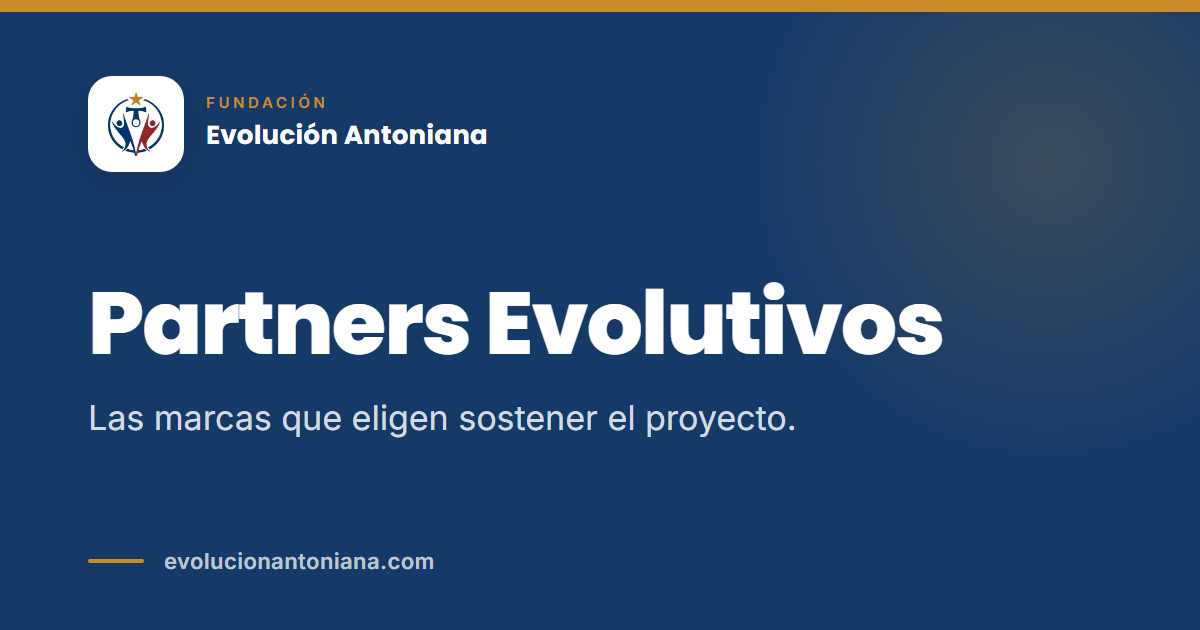
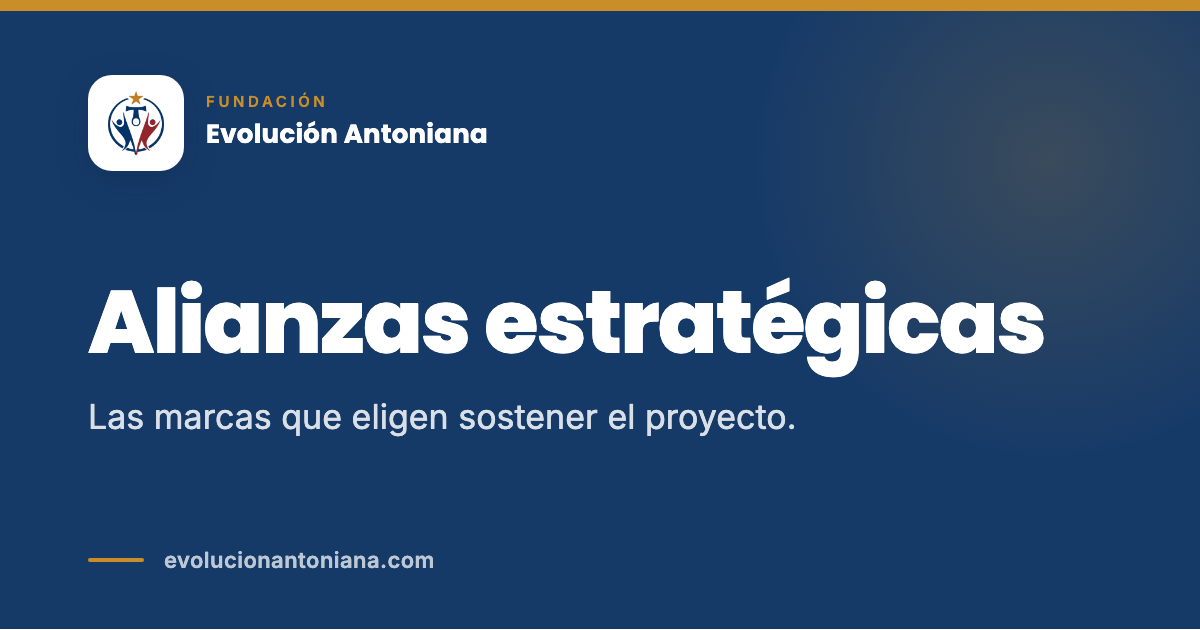
feat(language): normalizar vocabulario de alianzas

diff --git a/src/pages/Home.jsx b/src/pages/Home.jsx
@@ -22,6 +22,7 @@ import {
   useApprovedPartners,
 } from "@/hooks/useContentQueries";
 import { RUTAS } from "@/config/rutas";
+import { entidad } from "@/config/entidad";
 import { canonicalUrl } from "@/lib/seo";
 const stats = [
   { number: "305", suffix: "+", label: "Almas impactadas", desc: "Beneficiarios directos de nuestros programas." },
@@ -204,7 +205,7 @@ const Home = () => {
   return (
     <div className="bg-brand-sand">
       <Helmet>
-        <title>Fundación Evolución Antoniana | Educación, Deporte y Tecnología para Transformar Realidades</title>
+        <title>{entidad.nombre} | Educación, Deporte y Tecnología para Transformar Realidades</title>
         <meta name="description" content="Impulsamos oportunidades reales a través de la educación, el deporte, la inclusión y la tecnología, desarrollando proyectos que transforman realidades." />
         <link rel="canonical" href={canonicalUrl(RUTAS.inicio)} />
       </Helmet>
@@ -222,7 +223,7 @@ const Home = () => {
           <div className="grid grid-cols-1 lg:grid-cols-12 gap-12 lg:gap-16 items-center">
             <div className="lg:col-span-7">
               <motion.div variants={rise} className="mb-7">
-                <Eyebrow light>Fundación · Salta, Argentina</Eyebrow>
+                <Eyebrow light>{entidad.tipoDisplay} · {entidad.ubicacion.display}</Eyebrow>
               </motion.div>
 
               <motion.h1
@@ -553,7 +554,7 @@ const Home = () => {
                     <Eyebrow>Comunidad</Eyebrow>
                   </div>
                   <h2 className="font-poppins font-bold text-2xl lg:text-3xl tracking-tight text-brand-dark">
-                    Partners que nos acompañan
+                    Organizaciones que nos acompañan
                   </h2>
                 </div>
                 <div className="flex flex-wrap gap-x-8 gap-y-2">
@@ -575,7 +576,7 @@ const Home = () => {
               </div>
 
               <ul
-                aria-label="Partners de la fundación"
+                aria-label={`Organizaciones aliadas de ${entidad.nombreCorto}`}
                 className="grid grid-cols-2 sm:grid-cols-3 lg:grid-cols-5 gap-x-6 gap-y-2"
               >
                 {partners.map((partner) => (
@@ -612,7 +613,7 @@ const Home = () => {
             </h2>
             <p className="text-lg text-white/70 leading-relaxed max-w-[36rem] mb-10">
               Unite a nuestra comunidad: accedé a beneficios exclusivos de
-              nuestros partners y contribuí al desarrollo social y tecnológico
+              nuestras organizaciones aliadas y contribuí al desarrollo social y tecnológico
               de Salta.
             </p>
 

diff --git a/src/pages/PartnerDetailPage.jsx b/src/pages/PartnerDetailPage.jsx
@@ -11,6 +11,7 @@ import { usePartnerItem, useBeneficiosVidriera } from '@/hooks/useContentQueries
 import { cn, palabraMasLarga } from '@/lib/utils';
 import { canonicalUrl } from '@/lib/seo';
 import { RUTAS } from '@/config/rutas';
+import { entidad, tituloPagina } from '@/config/entidad';
 
 const PartnerDetailPage = () => {
   const { slug } = useParams();
@@ -43,7 +44,7 @@ const PartnerDetailPage = () => {
   });
 
   const pageTitle = partner
-    ? `${partner.nombre} – Fundación Evolución Antoniana`
+    ? tituloPagina(partner.nombre)
     : 'Alianzas estratégicas';
 
   React.useEffect(() => {
@@ -53,7 +54,7 @@ const PartnerDetailPage = () => {
   }, [navigate, partner?.slug, slug]);
 
   if (loading) {
-    return <ResourceLoading title="Cargando alianza… – Fundación Evolución Antoniana" />;
+    return <ResourceLoading title={tituloPagina('Cargando alianza…')} />;
   }
 
   if (!partner) {
@@ -143,7 +144,7 @@ const PartnerDetailPage = () => {
                         <div className="flex items-center gap-2 mb-4">
                             <CheckCircle2 className="w-4 h-4 text-green-500" />
                             <span className="text-xs font-bold uppercase tracking-wider text-green-600">
-                                Partner verificado
+                                Organización aliada verificada
                             </span>
                         </div>
                     )}
@@ -281,7 +282,7 @@ const PartnerDetailPage = () => {
                 <div className="mt-6 bg-brand-primary rounded-sm p-6 flex flex-col sm:flex-row items-center justify-between gap-4 text-white">
                     <div>
                         <h3 className="font-bold font-poppins text-lg">¿Tu organización quiere sumarse?</h3>
-                        <p className="text-white/75 text-sm">Sé parte de la red de impacto de Evolución Antoniana.</p>
+                        <p className="text-white/75 text-sm">Sé parte de la red de impacto de {entidad.nombreCorto}.</p>
                     </div>
                     <Link to={RUTAS.alianzas.postularse}>
                          <Button className="bg-white text-brand-primary hover:bg-brand-sand font-bold whitespace-nowrap">

diff --git a/src/pages/ApplyPartnerPage.jsx b/src/pages/ApplyPartnerPage.jsx
@@ -16,6 +16,7 @@ import { addPartner } from '@/lib/storage';
 import { Honeypot } from '@/components/Forms/Honeypot';
 import { canonicalUrl } from '@/lib/seo';
 import { RUTAS } from '@/config/rutas';
+import { tituloPagina } from '@/config/entidad';
 
 const urlSchema = z.string().url();
 
@@ -97,10 +98,10 @@ const ApplyPartnerPage = () => {
   return (
     <div className="min-h-screen flex flex-col bg-brand-sand font-sans">
       <Helmet>
-        <title>Postularse como Partner - Fundación Evolución Antoniana</title>
+        <title>{tituloPagina('Postular una alianza')}</title>
         <meta
           name="description"
-          content="Únete a nuestra red de partners y colabora con el desarrollo social de la comunidad"
+          content="Sumá tu organización a nuestra red de alianzas y colaborá con el desarrollo social de la comunidad"
         />
         <link rel="canonical" href={canonicalUrl(RUTAS.alianzas.postularse)} />
       </Helmet>
@@ -138,7 +139,7 @@ const ApplyPartnerPage = () => {
                         <span className="text-brand-gold text-xs font-bold tracking-widest uppercase">Únete a la Red</span>
                     </div>
                     <h1 className="text-4xl md:text-5xl font-poppins font-bold text-white mb-6">
-                        Postular como <span className="text-brand-gold">Partner</span>
+                        Proponer una <span className="text-brand-gold">alianza</span>
                     </h1>
                     <p className="text-xl text-gray-200 leading-relaxed max-w-2xl mx-auto">
                         Suma a tu organización a nuestra misión y colabora directamente con el desarrollo tecnológico y social de la comunidad.

diff --git a/src/pages/AdminPanel.jsx b/src/pages/AdminPanel.jsx
@@ -27,7 +27,7 @@ import ImportarMovimientos from '@/components/Admin/ImportarMovimientos';
 import ClubAdmin from '@/components/Club/ClubAdmin';
 import AportesAdmin from '@/components/Admin/AportesAdmin';
 import GastosAdmin from '@/components/Admin/GastosAdmin';
-import { entidad } from '@/config/entidad';
+import { entidad, tituloPagina } from '@/config/entidad';
 import { RUTAS } from '@/config/rutas';
 
 const AdminPanel = () => {
@@ -95,7 +95,7 @@ const AdminPanel = () => {
       {
         label: 'Ecosistema',
         items: [
-          { value: 'partners', label: 'Partners', icon: Handshake, badge: stats.pendingPartners },
+          { value: 'partners', label: 'Alianzas', icon: Handshake, badge: stats.pendingPartners },
           { value: 'benefits', label: 'Beneficios', icon: Gift },
           { value: 'club', label: entidad.comunidadEvolucion.nombre, icon: Ticket },
         ],
@@ -175,10 +175,10 @@ const AdminPanel = () => {
   return (
     <div className="min-h-screen bg-brand-sand font-sans">
       <Helmet>
-        <title>Panel de Administración - Fundación Evolución Antoniana</title>
+        <title>{tituloPagina('Panel de administración')}</title>
         <meta
           name="description"
-          content="Gestión de actividades, usuarios, colaboraciones, donaciones, documentos legales, partners, beneficios y novedades."
+          content="Gestión de actividades, usuarios, colaboraciones, donaciones, documentos legales, alianzas, beneficios y novedades."
         />
         <meta name="robots" content="noindex" />
       </Helmet>

diff --git a/src/pages/PartnersPage.jsx b/src/pages/PartnersPage.jsx
@@ -16,6 +16,7 @@ import PartnerLogo from '@/components/PartnerLogo';
 import { useApprovedPartners } from '@/hooks/useContentQueries';
 import { RUTAS } from '@/config/rutas';
 import { canonicalUrl } from '@/lib/seo';
+import { tituloPagina } from '@/config/entidad';
 
 const impactAreas = [
   {
@@ -112,7 +113,7 @@ const PartnersPage = () => {
   return (
     <div className="min-h-screen bg-brand-sand font-sans">
       <Helmet>
-        <title>Partners Evolutivos - Fundación Evolución Antoniana</title>
+        <title>{tituloPagina('Alianzas estratégicas')}</title>
         <meta
           name="description"
           content="Conocé a nuestras marcas aliadas y los beneficios que ofrecen"
@@ -130,7 +131,7 @@ const PartnersPage = () => {
           >
             <Eyebrow light>Alianzas estratégicas</Eyebrow>
             <h1 className="mt-6 mb-6 font-poppins text-4xl font-bold tracking-tight text-white sm:text-5xl lg:text-[3.5rem]">
-              Partners evolutivos
+              Organizaciones aliadas
             </h1>
             <p className="mb-8 max-w-[36rem] text-lg leading-relaxed text-white/75">
               Organizaciones líderes comprometidas con el desarrollo tecnológico y social de nuestra comunidad.

diff --git a/api/share/partners/slug.js b/api/share/partners/slug.js
@@ -18,6 +18,7 @@
 // -----------------------------------------------------------------------------
 
 import { resolvePublicSlug } from '../../_slug-resolver.js';
+import { entidad, tituloPagina } from '../../../src/config/entidad.js';
 
 const escapeHtml = (s = "") =>
   String(s || "")
@@ -120,8 +121,8 @@ export default async function handler(req, res) {
     // Mismo texto que el `<Helmet>` de `PartnerDetailPage`.
     const title = escapeHtml(
       item.nombre
-        ? `${item.nombre} – Fundación Evolución Antoniana`
-        : "Marca aliada – Fundación Evolución Antoniana"
+        ? tituloPagina(item.nombre)
+        : tituloPagina("Organización aliada")
     );
     const desc = escapeHtml(
       stripToOneLine(item.descripcion || "Conocé nuestras marcas aliadas y sus beneficios.").slice(
@@ -150,7 +151,7 @@ export default async function handler(req, res) {
   <meta property="og:image:width" content="1200" />
   <meta property="og:image:height" content="630" />
   ${extraImageType}
-  <meta property="og:site_name" content="Fundación Evolución Antoniana" />
+  <meta property="og:site_name" content="${escapeHtml(entidad.nombre)}" />
   <meta property="og:locale" content="es_AR" />
 
   <!-- Twitter / X -->

diff --git a/src/pages/BenefitDetailPage.jsx b/src/pages/BenefitDetailPage.jsx
@@ -29,6 +29,7 @@ import { ResourceLoading, ResourceNotFound } from "@/components/ui/resource-stat
 import { canonicalUrl } from "@/lib/seo";
 import { RUTAS } from "@/config/rutas";
 import { PUBLIC_RESOURCE_TYPES } from "@/lib/slugResolver";
+import { tituloPagina } from "@/config/entidad";
 
 const fmt = (d) => new Date(d).toLocaleDateString('es-AR', { dateStyle: 'long' });
 
@@ -84,7 +85,7 @@ const BenefitDetailPage = () => {
   // tiene un reloj que le da sentido.
 
   if (resolving || (Boolean(resolution?.resource_id) && loading)) {
-    return <ResourceLoading title="Cargando beneficio… – Fundación Evolución Antoniana" />;
+    return <ResourceLoading title={tituloPagina('Cargando beneficio…')} />;
   }
 
   if (!benefit) {
@@ -102,7 +103,7 @@ const BenefitDetailPage = () => {
   return (
     <div className="min-h-screen flex flex-col bg-brand-sand font-sans">
       <Helmet>
-        <title>{benefit.titulo} - Fundación Evolución Antoniana</title>
+        <title>{tituloPagina(benefit.titulo)}</title>
         <meta name="description" content={benefit.descripcion} />
         <link
           rel="canonical"

diff --git a/api/share/pagina.test.js b/api/share/pagina.test.js
@@ -261,6 +261,20 @@ describe('el HTML que ve el bot', () => {
     expect(res.body).not.toContain('Educación, Deporte y Tecnología');
   });
 
+  it('usa vocabulario de alianzas en las dos tarjetas institucionales', async () => {
+    const listado = await pedir({ p: 'alianzas' });
+    const postulacion = await pedir({ p: 'alianzas/postularse' });
+
+    expect(listado.body).toContain('content="Alianzas estratégicas | Evolución Antoniana"');
+    expect(postulacion.body).toContain('content="Proponé una alianza | Evolución Antoniana"');
+    expect([
+      PAGINAS['/alianzas'].titulo,
+      PAGINAS['/alianzas'].descripcion,
+      PAGINAS['/alianzas/postularse'].titulo,
+      PAGINAS['/alianzas/postularse'].descripcion,
+    ].join(' ')).not.toMatch(/\bpartners?\b/i);
+  });
+
   it('apunta el og:url y el canonical a la URL humana, nunca a /api/share/', async () => {
     const res = await pedir({ p: 'comercios/sumarse' });
     const esperada = 'https://www.evolucionantoniana.com/comercios/sumarse';

diff --git a/api/share/pagina.js b/api/share/pagina.js
@@ -114,15 +114,15 @@ export const PAGINAS = {
   },
   [ROUTE_PATHS.ALIANZAS]: {
     imagen: "/img/og/partners-1200x630.png",
-    titulo: "Partners Evolutivos",
+    titulo: "Alianzas estratégicas",
     descripcion:
       "Conocé a nuestras marcas aliadas y los beneficios que ofrecen.",
   },
   [ROUTE_PATHS.POSTULAR_ALIANZA]: {
     imagen: "/img/og/postular-partner-1200x630.png",
-    titulo: "Postulate como partner",
+    titulo: "Proponé una alianza",
     descripcion:
-      "Sumate a nuestra red de partners y colaborá con el desarrollo social de la comunidad.",
+      "Sumá tu organización a nuestra red de alianzas y colaborá con el desarrollo social de la comunidad.",
   },
   [ROUTE_PATHS.CLUB]: {
     imagen: "/img/og/club-1200x630.png",

diff --git a/src/lib/lenguaje-linea-base.test.js b/src/lib/lenguaje-linea-base.test.js
@@ -9,7 +9,8 @@ describe('línea base ejecutable de lenguaje', () => {
     expect(report.unexpectedBrandFiles).toEqual([]);
   });
 
-  it('no amplía las páginas que conservan Partner(s) en la fuente', () => {
+  it('elimina Partner(s) del lenguaje público inventariado', () => {
+    expect(report.partnerFiles).toEqual([]);
     expect(report.unexpectedPartnerFiles).toEqual([]);
   });
 

diff --git a/docs/consistencia-lenguaje-etapa-7.md b/docs/consistencia-lenguaje-etapa-7.md
@@ -2,7 +2,7 @@
 
 **Inicio:** 2026-10-25
 
-**Estado:** Bloques 7A y 7B completos; Bloque 7C pendiente
+**Estado:** Bloques 7A y 7B completos; Bloque 7C1 preparado para publicación
 
 ## 1. Objetivo
 
@@ -29,7 +29,7 @@ Barrido sobre código ejecutable, excluyendo pruebas y archivos minificados:
 | Endpoints Vercel de previews | 6 | darles configuración server-side compartida |
 | Edge Functions | 4 | separar remitente, dominio y nombre institucional |
 | `index.html` y estáticos públicos | 3 | generar o sincronizar desde configuración |
-| Páginas con `Partner(s)` en fuente | 7 | clasificar texto visible frente a identificador técnico |
+| Páginas con `Partner(s)` en fuente | 7 | medición inicial amplia; clasificar texto visible frente a identificador técnico |
 | Literal público “Club de beneficios” | 0 | mantener en cero |
 
 La auditoría consolidada registra 44 archivos runtime con marca o dominio literal: los 31 del
@@ -98,6 +98,30 @@ se recorta la allowlist para que la deuda eliminada no pueda reaparecer.
 - migrar marca, contacto, SEO y textos públicos a configuración;
 - normalizar “Partner(s)” visible a “alianza”, “organización aliada” o la variante definida;
 - conservar nombres de componentes, tablas y APIs para evitar una migración técnica sin valor.
+
+#### Bloque 7C1 — vocabulario público de alianzas y SEO
+
+- [x] portada, listado, detalle, postulación y navegación administrativa expresan “alianzas” u
+  “organizaciones aliadas” en el texto visible;
+- [x] títulos de página y metadatos del frontend consumen el contrato de entidad;
+- [x] previews estáticas y dinámicas de alianzas usan el mismo vocabulario y marca;
+- [x] imágenes OG de `/alianzas` y `/alianzas/postularse` regeneradas y revisadas visualmente;
+- [x] identificadores técnicos `partners`, `partner_id` y nombres de componentes preservados;
+- [x] auditoría refinada para medir frases públicas, sin confundir rutas, archivos ni código;
+- [x] deuda de marca o dominio reducida de 44 a 37 archivos;
+- [x] términos públicos `Partner(s)` y “Club de beneficios” en cero;
+- [x] suite completa: 64 archivos y 695 pruebas aprobadas;
+- [x] lint sin errores (37 advertencias preexistentes), build y ambas auditorías correctos;
+- [ ] deploy de Vercel y verificación de páginas y previews en producción.
+
+La cifra inicial de siete páginas con `Partner(s)` se obtuvo con una expresión deliberadamente
+amplia y también incluía identificadores o comentarios. Desde 7C1 la auditoría controla frases
+que podrían llegar a la interfaz y exige cero coincidencias. Esto permite conservar el dominio
+técnico estable sin ocultar deuda de comunicación pública.
+
+El próximo incremento, 7C2, migrará la marca y el SEO literal que todavía queda en otras páginas
+del frontend público. Contacto, servidor, Edge Functions y estáticos se mantienen para los
+bloques posteriores, evitando mezclar runtimes en un mismo despliegue.
 
 ### Bloque 7D — servidor y estáticos
 

diff --git a/docs/arquitectura-rutas-y-portabilidad.md b/docs/arquitectura-rutas-y-portabilidad.md
@@ -16,7 +16,7 @@
 | 4. Migración de rutas públicas estáticas | Completa, publicada y verificada | `docs/migracion-rutas-publicas-etapa-4.md` |
 | 5. Slugs y aliases dinámicos | Completa, publicada y verificada | `docs/migracion-slugs-etapa-5.md` |
 | 6. Áreas personales, comercio y autenticación | Completa, publicada y verificada | `docs/migracion-areas-personales-etapa-6.md` |
-| 7. Consistencia transversal de lenguaje | En curso; Bloques 7A y 7B completos | `docs/consistencia-lenguaje-etapa-7.md` |
+| 7. Consistencia transversal de lenguaje | En curso; 7A–7B completos y 7C1 preparado | `docs/consistencia-lenguaje-etapa-7.md` |
 | 8–9 | Pendientes | Requieren cerrar la Etapa 7 |
 
 La Etapa 3 comenzó centralizando los 38 patrones actuales, sin renombrar URLs. El router,
@@ -560,6 +560,7 @@ Edge Functions se desplegaron individualmente y mantienen su frontera JWT. Los p
 reales actúan como canaries no bloqueantes y los aliases se conservan como rollback.
 
 La **Etapa 7 — Consistencia transversal de lenguaje** ya completó inventario, contrato v1 y
-auditoría ejecutable. Su evidencia está en `docs/consistencia-lenguaje-etapa-7.md`. El siguiente
-incremento seguro es el Bloque 7C: migrar marca, SEO y vocabulario del frontend público con la
-red de seguridad ya activa.
+auditoría ejecutable. El Bloque 7C1 normalizó el vocabulario público de alianzas, alineó su SEO y
+previews, redujo la deuda institucional de 44 a 37 archivos y dejó en cero las frases públicas
+con `Partner(s)`. Su evidencia está en `docs/consistencia-lenguaje-etapa-7.md`. El siguiente
+incremento seguro es 7C2: migrar la marca y el SEO literal restantes del frontend público.
